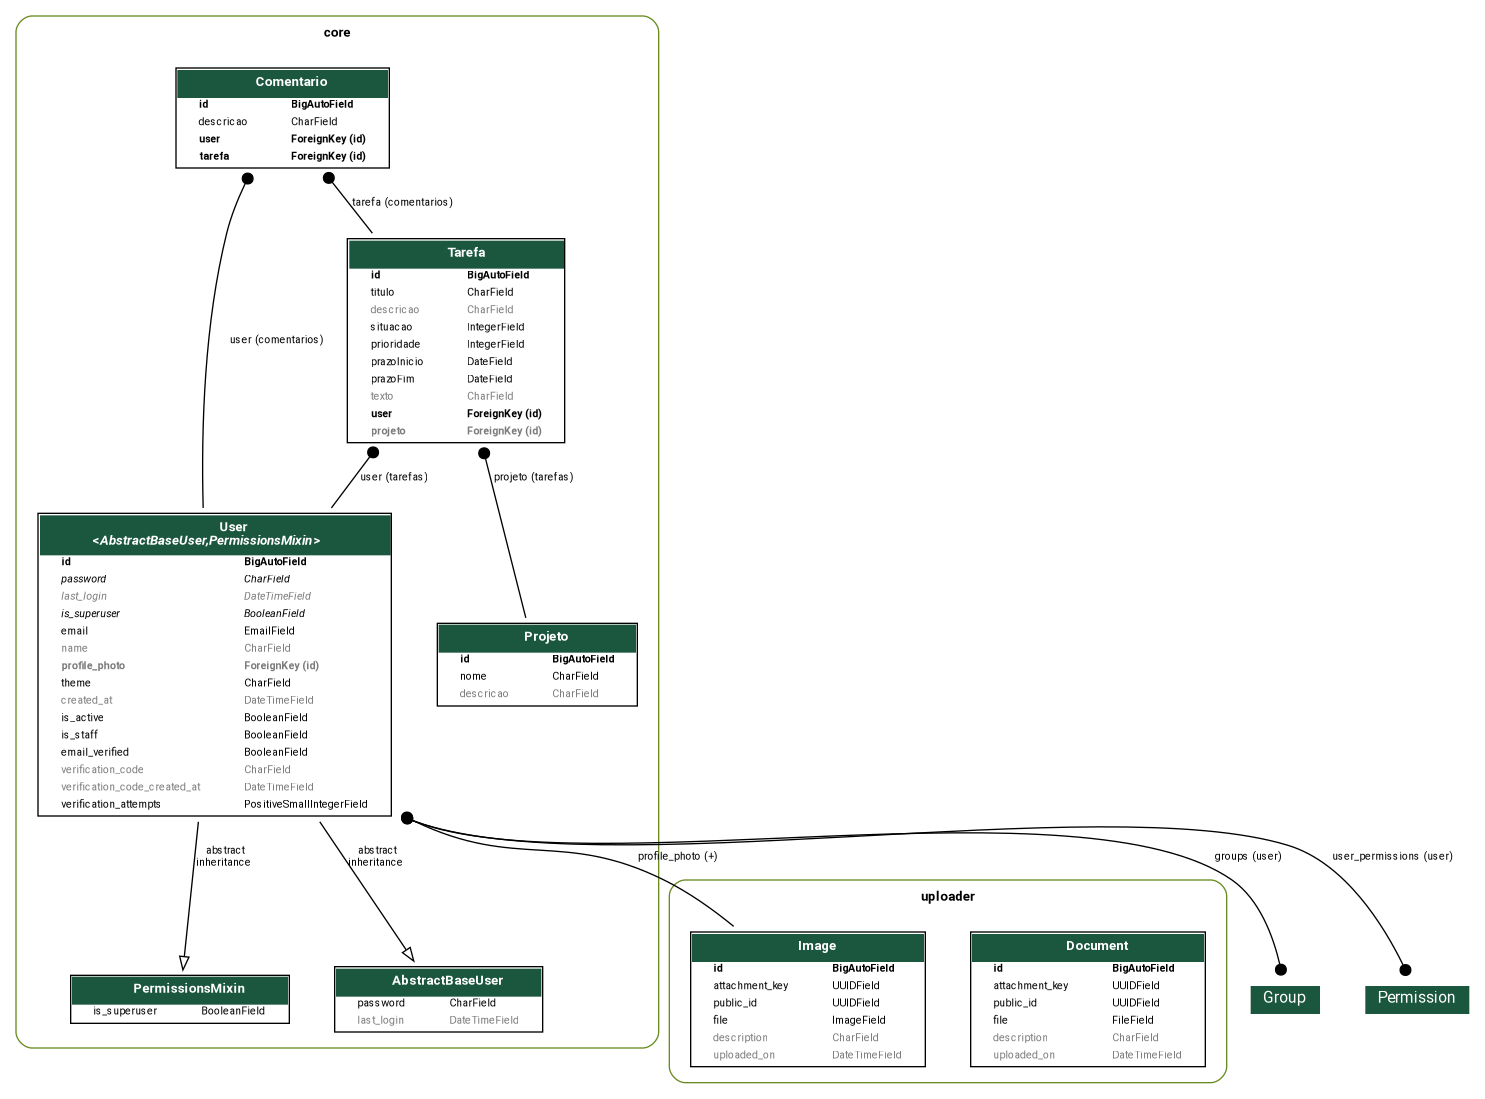
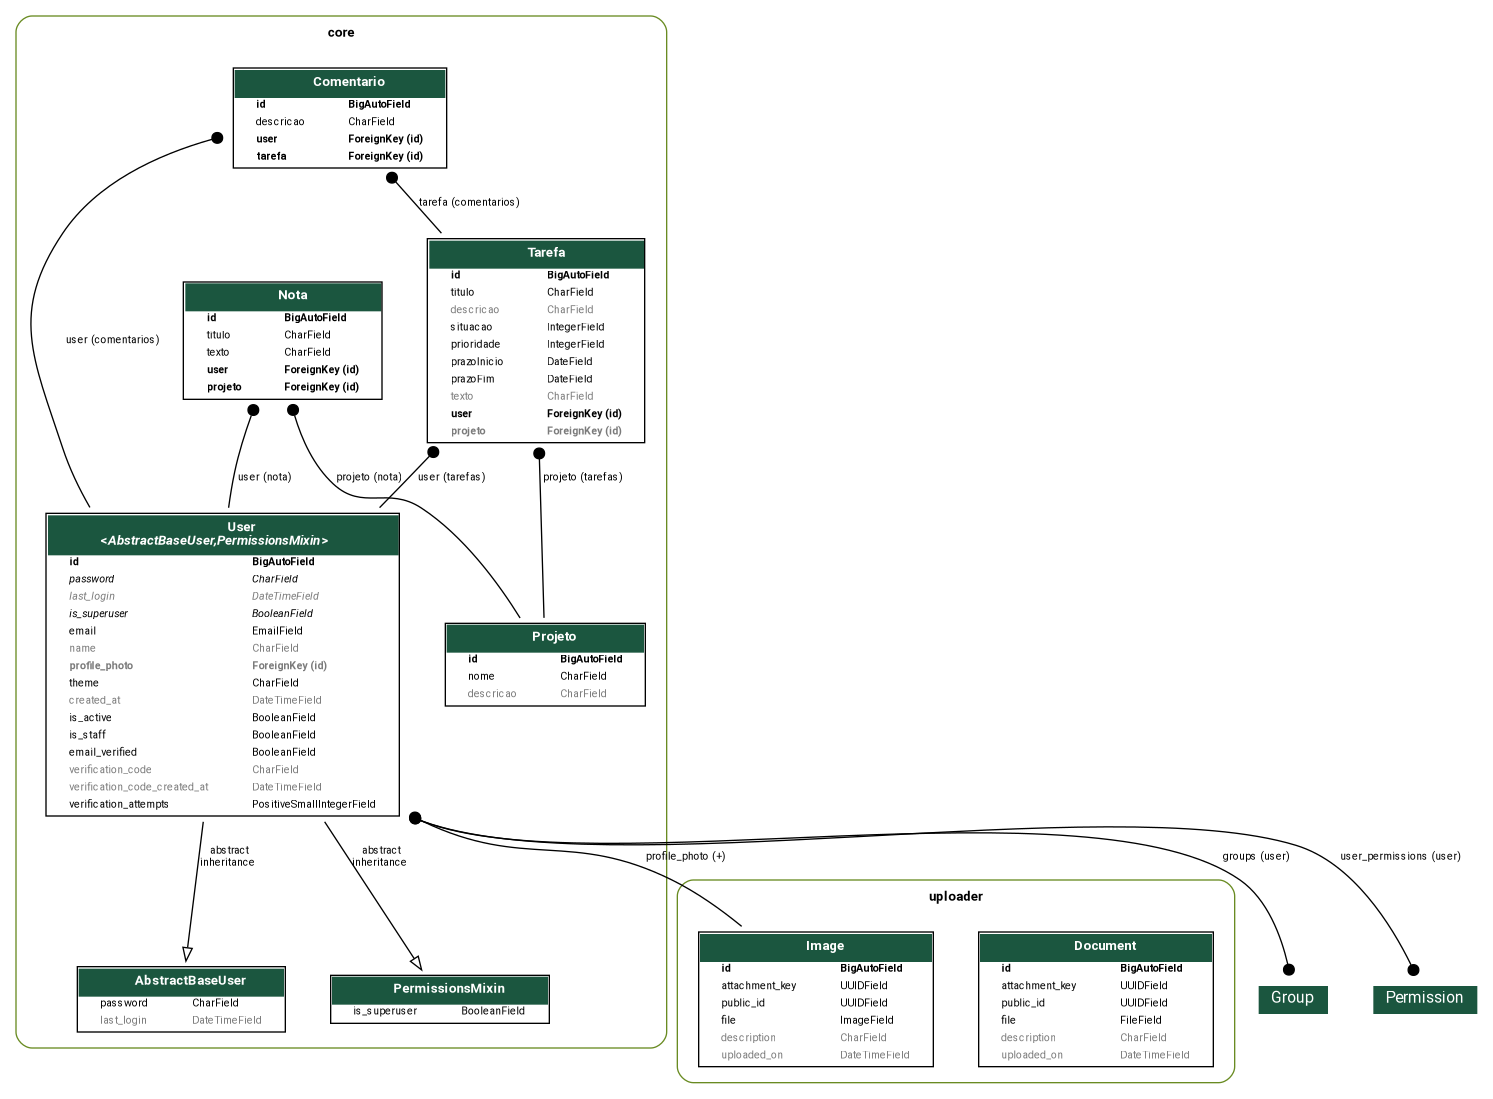
feat: Nota API [ REFS: #25 ]

diff --git a/core/migrations/0014_nota.py b/core/migrations/0014_nota.py
@@ -1,0 +1,25 @@
+# Generated by Django 5.2.18 on 2026-10-24 01:45
+
+import django.db.models.deletion
+from django.conf import settings
+from django.db import migrations, models
+
+
+class Migration(migrations.Migration):
+
+    dependencies = [
+        ('core', '0013_alter_tarefa_projeto'),
+    ]
+
+    operations = [
+        migrations.CreateModel(
+            name='Nota',
+            fields=[
+                ('id', models.BigAutoField(auto_created=True, primary_key=True, serialize=False, verbose_name='ID')),
+                ('titulo', models.CharField(max_length=45)),
+                ('texto', models.CharField(max_length=10000)),
+                ('projeto', models.ForeignKey(on_delete=django.db.models.deletion.CASCADE, related_name='nota', to='core.projeto')),
+                ('user', models.ForeignKey(on_delete=django.db.models.deletion.PROTECT, related_name='nota', to=settings.AUTH_USER_MODEL)),
+            ],
+        ),
+    ]

diff --git a/core/views/nota.py b/core/views/nota.py
@@ -1,7 +1,8 @@
-from rest_framework.views import ModelViewSet
+from rest_framework.viewsets import ModelViewSet
 
 from core.models import Nota
 from core.serializers import NotaSerializer
+
 
 class NotaViewSet(ModelViewSet):
     queryset = Nota.objects.all().order_by('-id')
